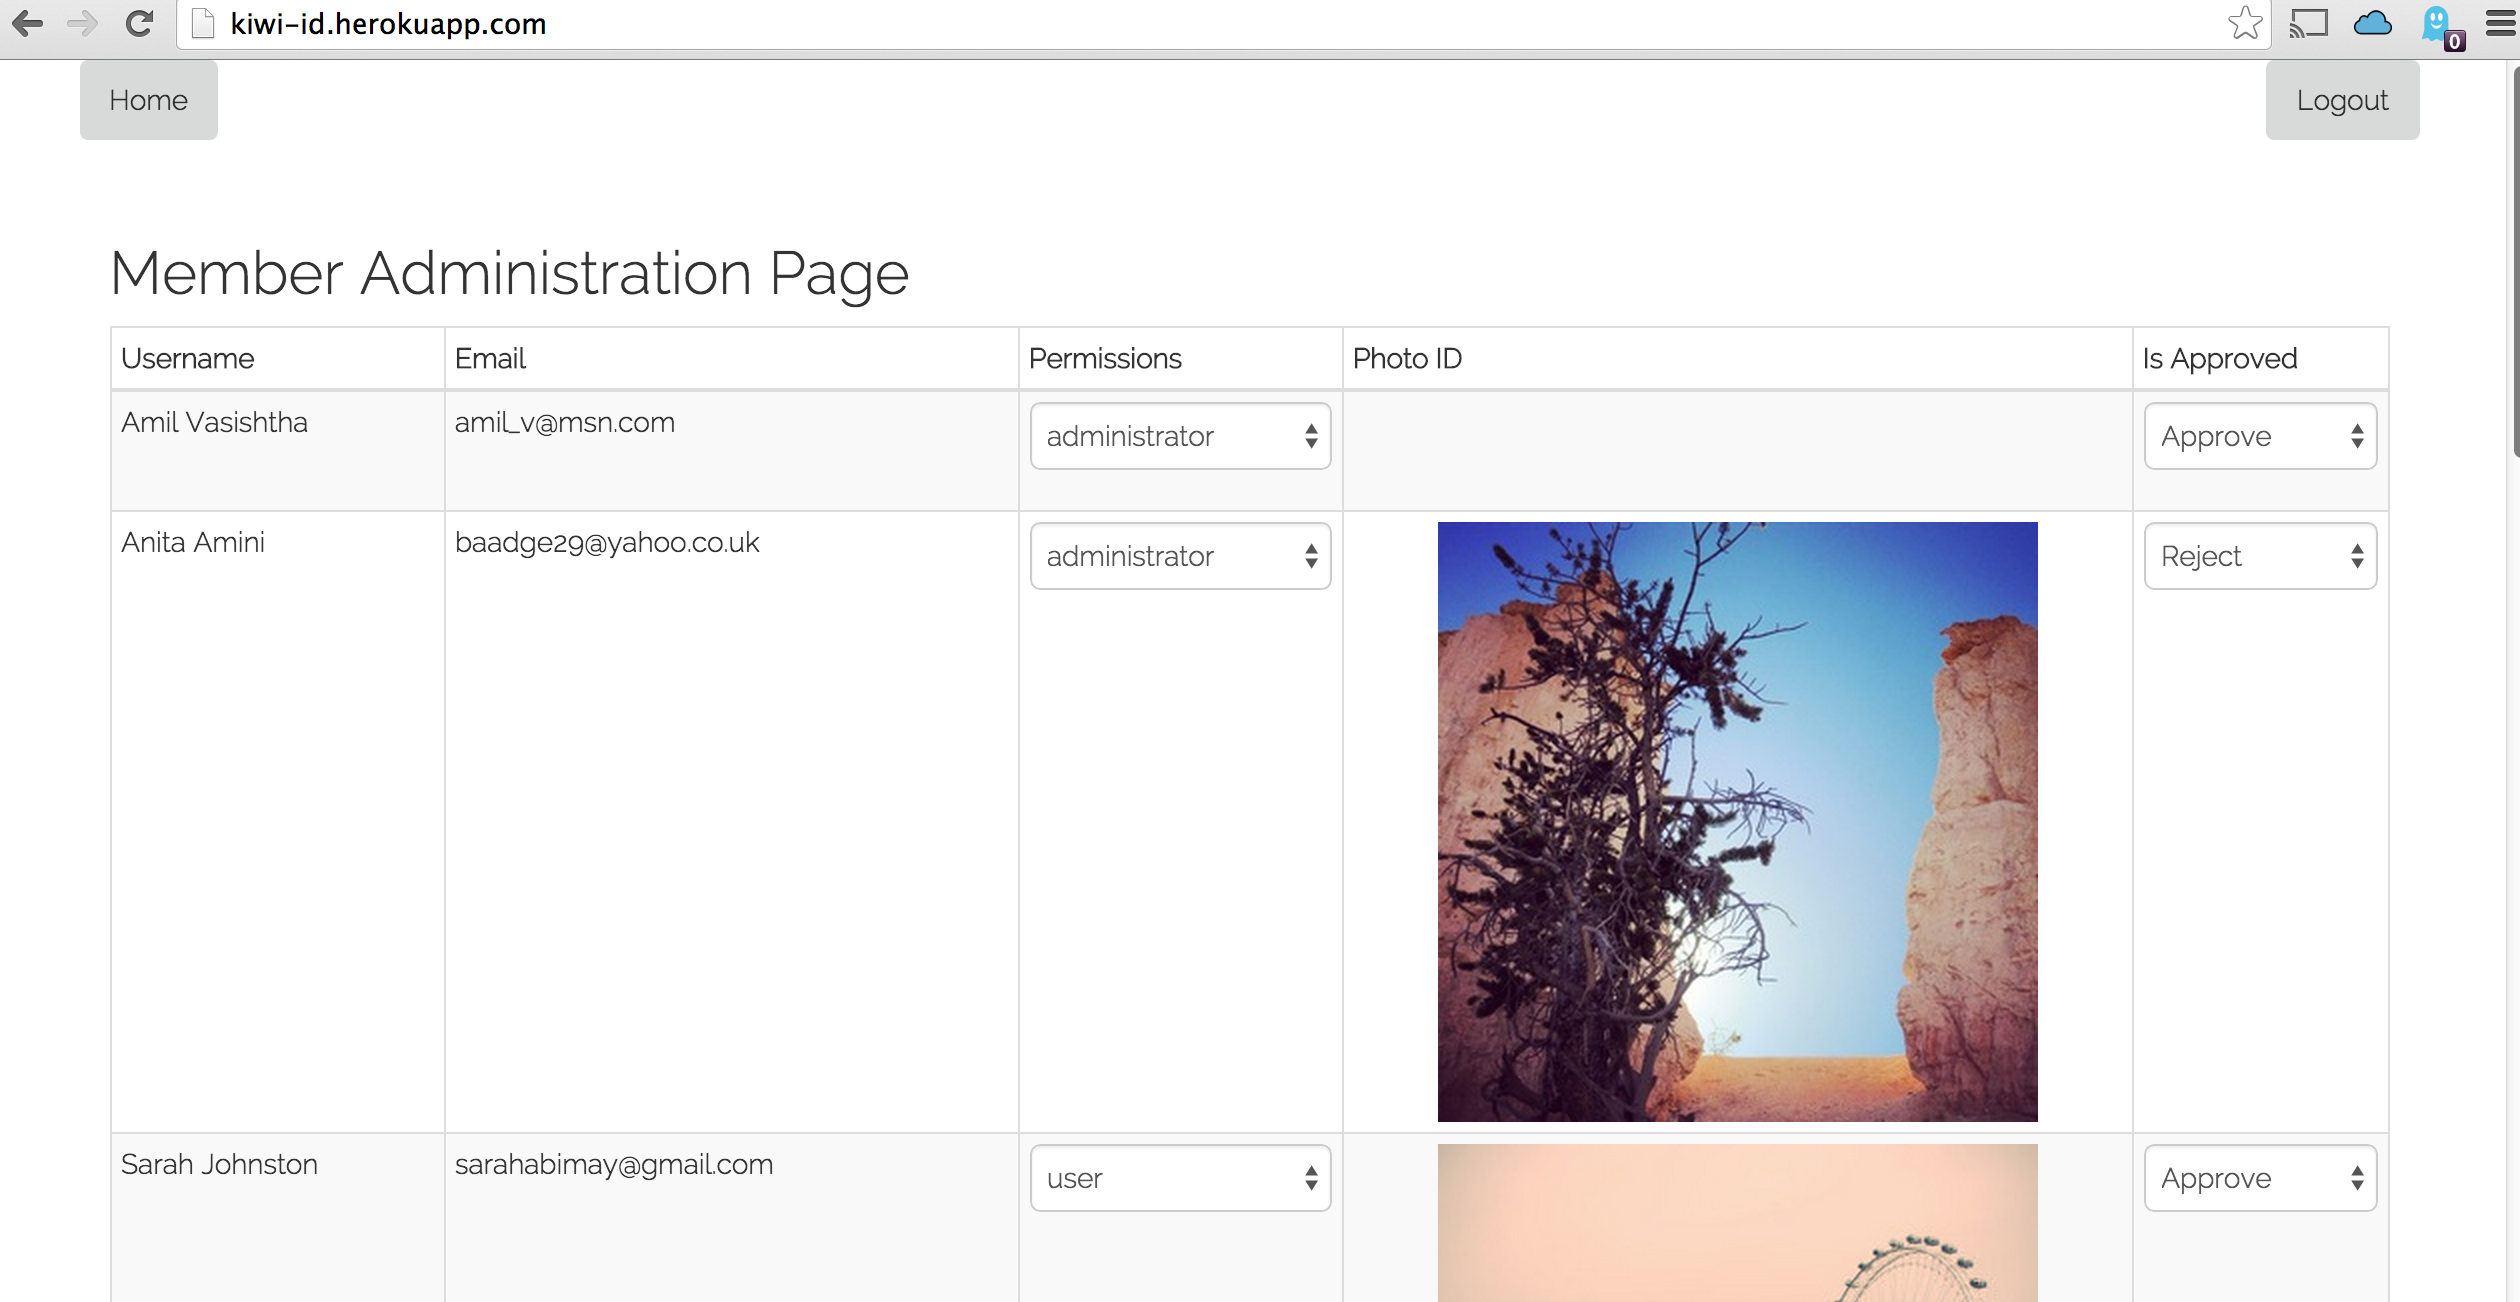
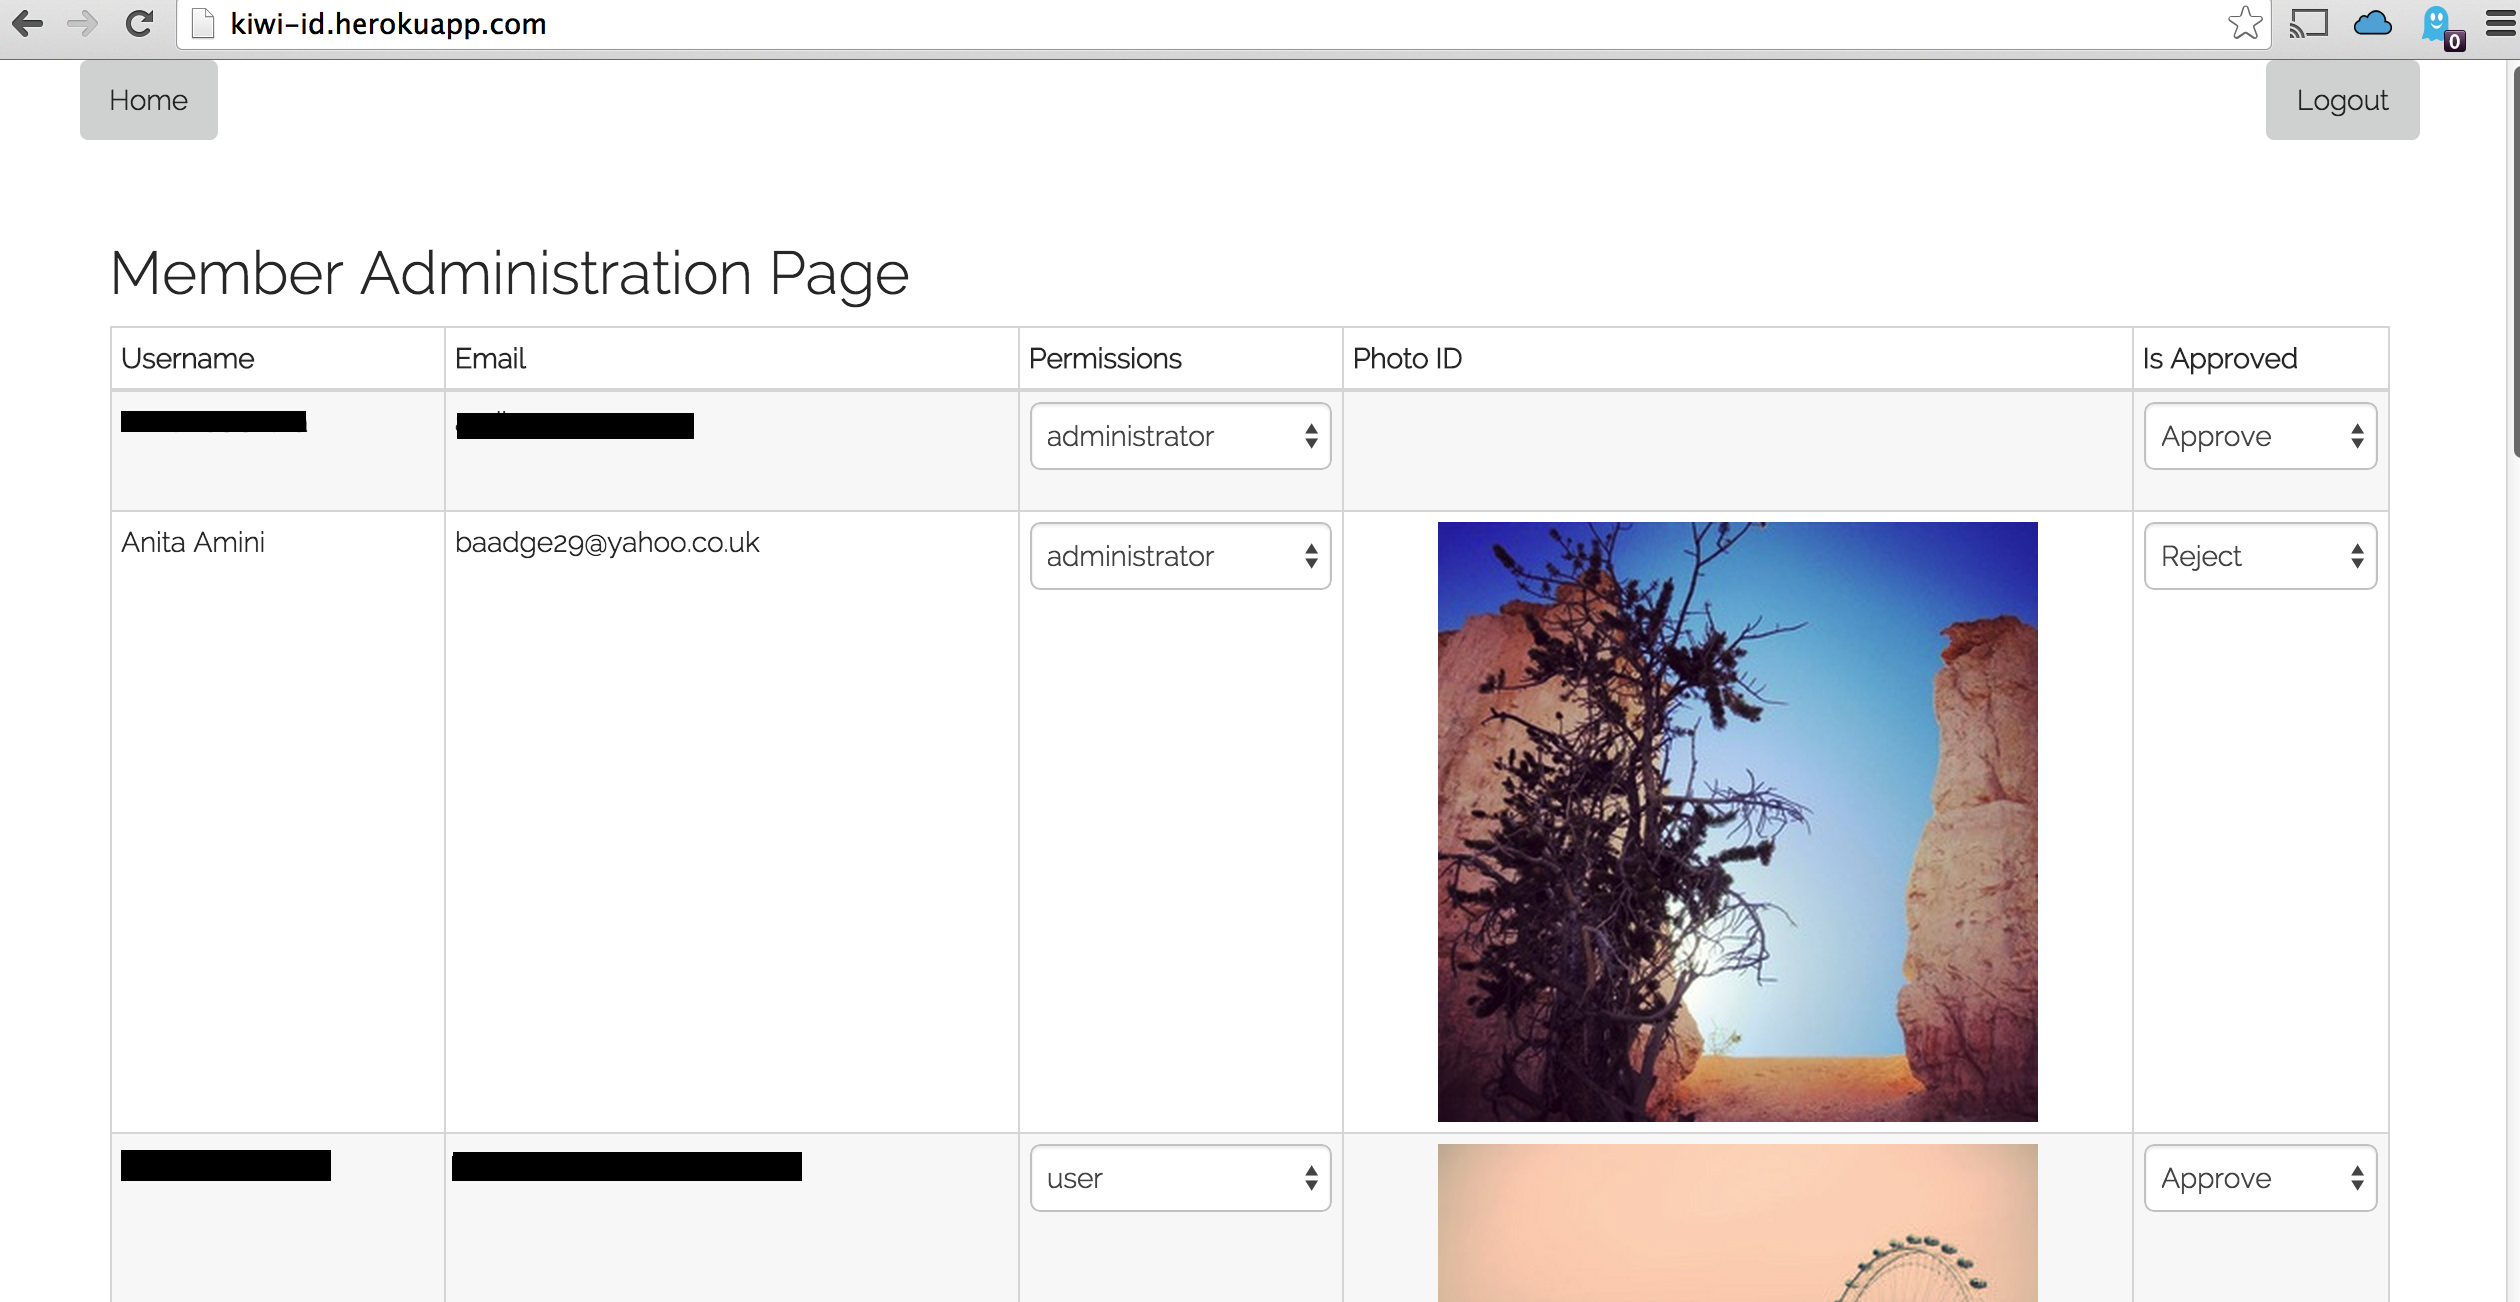
added fac to education and kiwi admin pic

diff --git a/README.md b/README.md
@@ -20,11 +20,10 @@ I have been working on a variety of projects for clients, using the following te
 
 ###PROJECTS
 
-- [Crowdsourced Fashion App](http://crowdsourced-fashion.herokuapp.com/)
-
-- [Education App](http://pajoa.herokuapp.com/)
-- [Puzzle for Toddlers](https://troll-olav.herokuapp.com/)
 - [Photo ID App](http://kiwi-id.herokuapp.com/)
+- [Education App](http://pajoa.herokuapp.com/)
+- [Crowdsourced Fashion App](http://crowdsourced-fashion.herokuapp.com/)
+- [Puzzle for Toddlers](https://troll-olav.herokuapp.com/)
 - [A Productivity App for Managing Data]()
 - [Map App for Local Businesses]() - close sourced
 - [A Learning Resource for Founders & Coders Students](https://github.com/Neats29/Learn-Heroku)
@@ -32,8 +31,8 @@ I have been working on a variety of projects for clients, using the following te
 
 ###EDUCATION
 
-
-BSC Hons Pharmaceutical Science 2:1  (2009 - 2012)
+8-Week Intensive Web Development Course (Jan 2015 - March 2015)
+BSC Hons Pharmaceutical Science 2:1  (Sep 2009 - July 2012)
 
 ###LINKS
 

diff --git a/photoId.md b/photoId.md
@@ -3,3 +3,4 @@
 An app for students to upload their photo ID and use at drinking establishments as proof of age. This would avoid potential loss of driving licences/passports which is a common occurance among the target group. 
 
 
+![](kiwi-admin.png)
